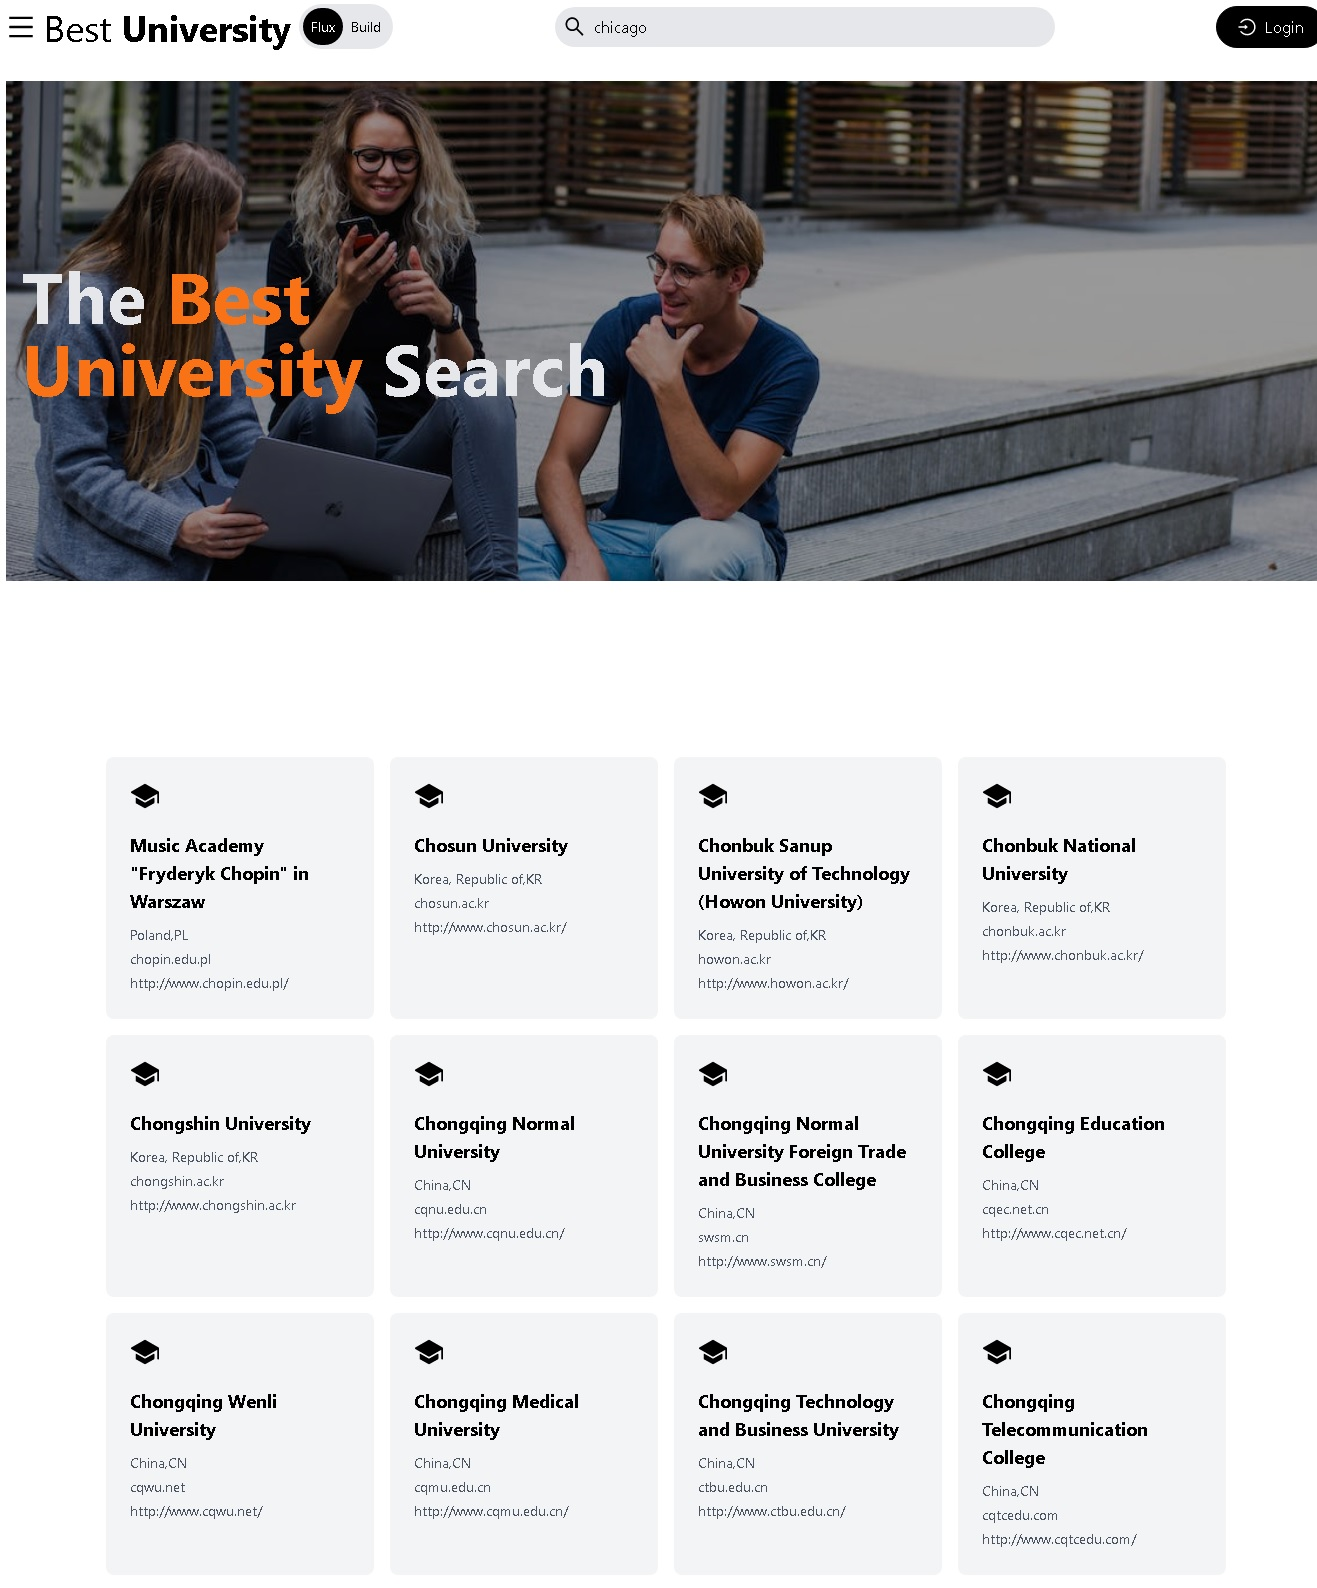
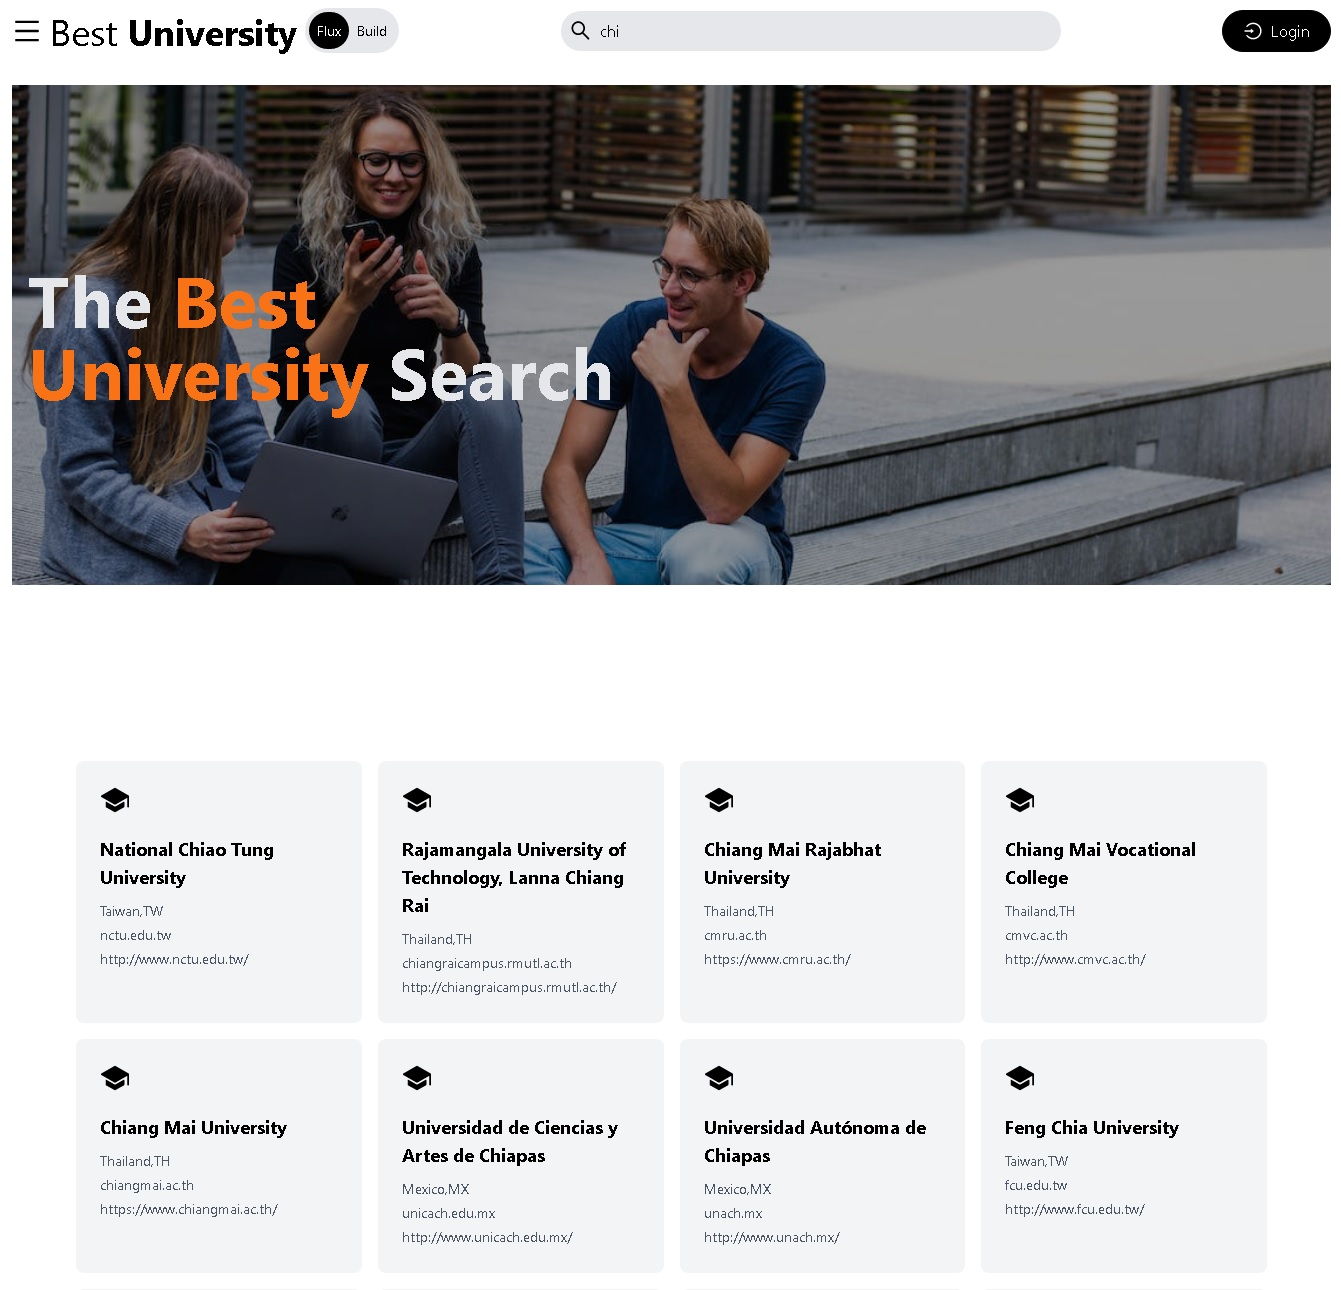
Fix responsive

diff --git a/src/universities/UniversitiesList.tsx b/src/universities/UniversitiesList.tsx
@@ -12,7 +12,7 @@ function UniversitytList({ universities }: UniversityListProps) {
 
 
   return (
-    <div className="container mx-auto px-20">
+    <div className="mx-auto px-20">
           <div style={{backgroundColor:"rgb(255, 255, 255)"}}>
             <div className="grid grid-cols-1 gap-4 md:grid-cols-2 xl:grid-cols-4 pt-20 pb-10 lg:pt-40 lg:pb-20" style={{cursor: "auto"}}>
 
